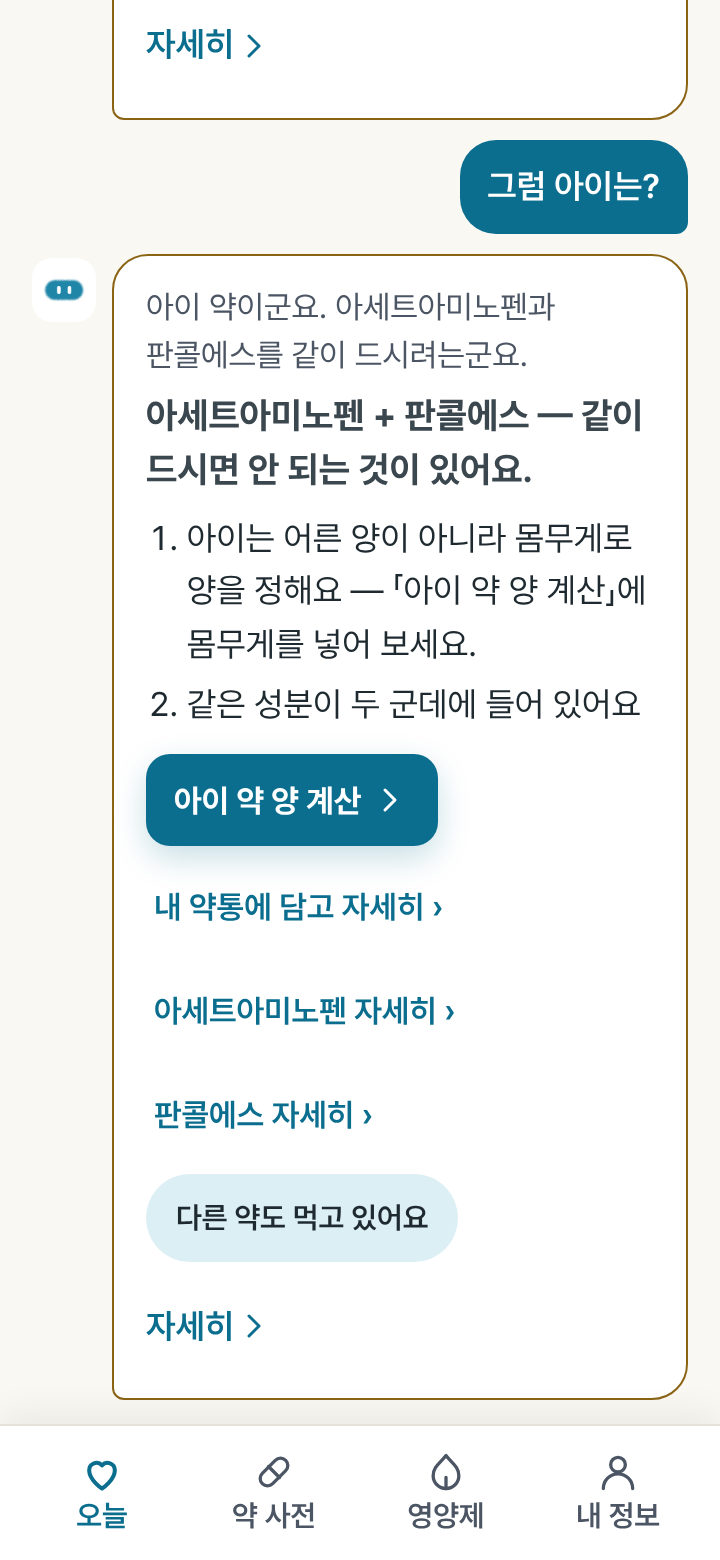
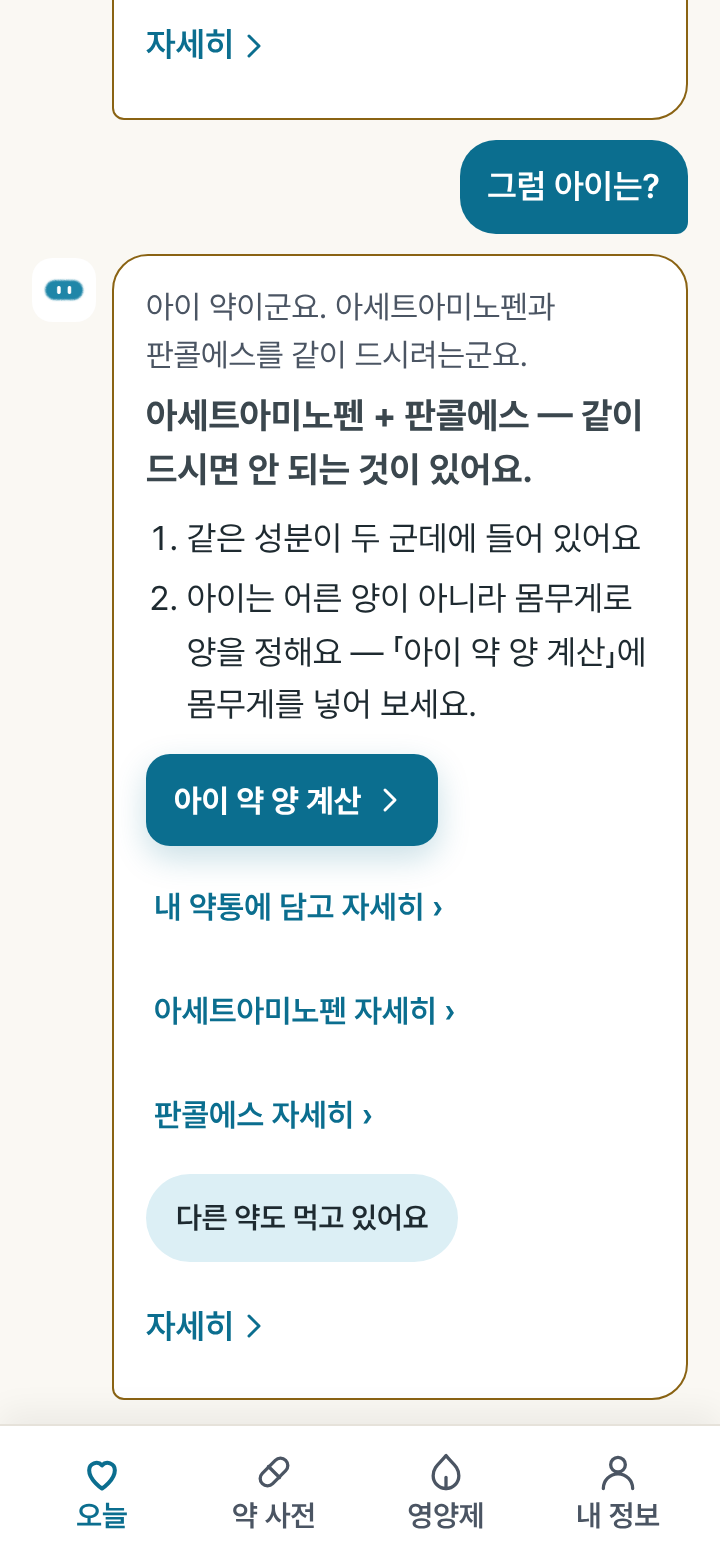
약지도 묻기: 아이·어르신 한 줄은 안전 줄 다음에 · 대화 사진
Claude-Session: https://claude.ai/code/session_01EnA5kC7cG7NGAyuaz7gY2Z

Changed region(s): [[0.2139, 0.3385, 0.8861, 0.4615]]

diff --git a/docs/yakjido/srv.js b/docs/yakjido/srv.js
@@ -4038,8 +4038,8 @@ window.언어칸 = function () {
     var r = 답짓기0(t);
     if (r && !r.위험 && r.결) {   /* 누가 드시는지 말하면 답이 바뀐다 — 아이는 몸무게 계산 먼저, 어르신은 조심 한 줄 먼저 */
       var 아 = /(아이|애기|아기|애가|애는|우리\s*애|[0-9]+\s*살|개월)/.test(t) && !/아이\s*해열제는 몸무게/.test(r.결), 어 = /(어르신|할머니|할아버지|노인|65\s*세|칠순|팔순|여든)/.test(t);
-      if (아 && !/몸무게/.test((r.할 || []).join(' '))) { r.할 = ['아이는 어른 양이 아니라 몸무게로 양을 정해요 — 「아이 약 양 계산」에 몸무게를 넣어 보세요.'].concat(r.할 || []).slice(0, 4); r.단 = [단추('아이 약 양 계산', '/kids', 1)].concat(r.단 || []); }
-      else if (어) r.할 = ['나이가 들면 같은 약도 콩팥·위에 부담이 커요 — 약사에게 나이와 드시는 약을 말하고 고르세요.'].concat(r.할 || []).slice(0, 4);
+      if (아 && !/몸무게/.test((r.할 || []).join(' '))) { var H0 = r.할 || [], 몸 = '아이는 어른 양이 아니라 몸무게로 양을 정해요 — 「아이 약 양 계산」에 몸무게를 넣어 보세요.'; r.할 = (H0.length ? [H0[0], 몸].concat(H0.slice(1)) : [몸]).slice(0, 4);   /* 안전 줄(첫 할 일)은 그대로 맨 위 */ r.단 = [단추('아이 약 양 계산', '/kids', 1)].concat(r.단 || []); }
+      else if (어) { var H1 = r.할 || [], 나 = '나이가 들면 같은 약도 콩팥·위에 부담이 커요 — 약사에게 나이와 드시는 약을 말하고 고르세요.'; r.할 = (H1.length ? [H1[0], 나].concat(H1.slice(1)) : [나]).slice(0, 4); }
     }
     if (r && !r.위험) { r.받 = r.받 || 받음(t, r); var 되 = 되묻기(t, r); if (되.length) r.칩 = (r.칩 || []).concat(되).filter(function (x, k, A) { return A.indexOf(x) === k; }).slice(0, 6); }
     return r;

diff --git a/docs/yakjido/sw.js b/docs/yakjido/sw.js
@@ -9,7 +9,7 @@
                        판이 같으면 캐시 그대로, 판이 바뀌면 새로 받아 넣고 옛 판은 지운다(prune).
    판 없는 옛 주소는 «캐시 먼저» — 한 번 받은 것은 즉시 열리고, 뒤에서 조용히 새로 받아 둔다.
    인터넷이 안 되면 어느 캐시에든 있는 사본을 준다(5-01 — 첫 방문 뒤 비행기 모드에서 본문이 안 뜨던 것). */
-const CACHE = 'yakjido-2026-11-19T00:56-0140faf3';
+const CACHE = 'yakjido-2026-11-19T01:12-29808650';
 const DATA = 'yakjido-data-v1';
 /* 기내 모드·바깥 파일 0(10-27) — 글꼴(fonts/)·로그인 프로그램(vendor/)은 배포 묶음 안. 판이 박힌 꾸러미라 내용이 안 바뀌니 «캐시 먼저», 앱 판이 바뀌어도 지우지 않는다(EXT).
    바깥 주소는 하나도 담지 않는다 — 서버 응답(supabase REST)·날씨는 그대로 지나간다(09-22 원칙) */

diff --git a/docs/yakjido/index.html b/docs/yakjido/index.html
@@ -1810,7 +1810,7 @@ html:not(.ink) .rf-none{display:none}</style>
 <script>
 window.__YAKJIDO_OK__ = true;
 const D = JSON.parse(document.getElementById('data').textContent || '{}');
-const BUILD = '2026-11-19 00:56';
+const BUILD = '2026-11-19 01:12';
 const DATAV = '67ebd68324'.indexOf('__') === 0 ? BUILD : '67ebd68324';
 const BRANDMARK = (typeof window !== 'undefined' && window.__BRANDMARK__) || 'icon-192.png';
 let CORE = 0, CORE_P = null;
